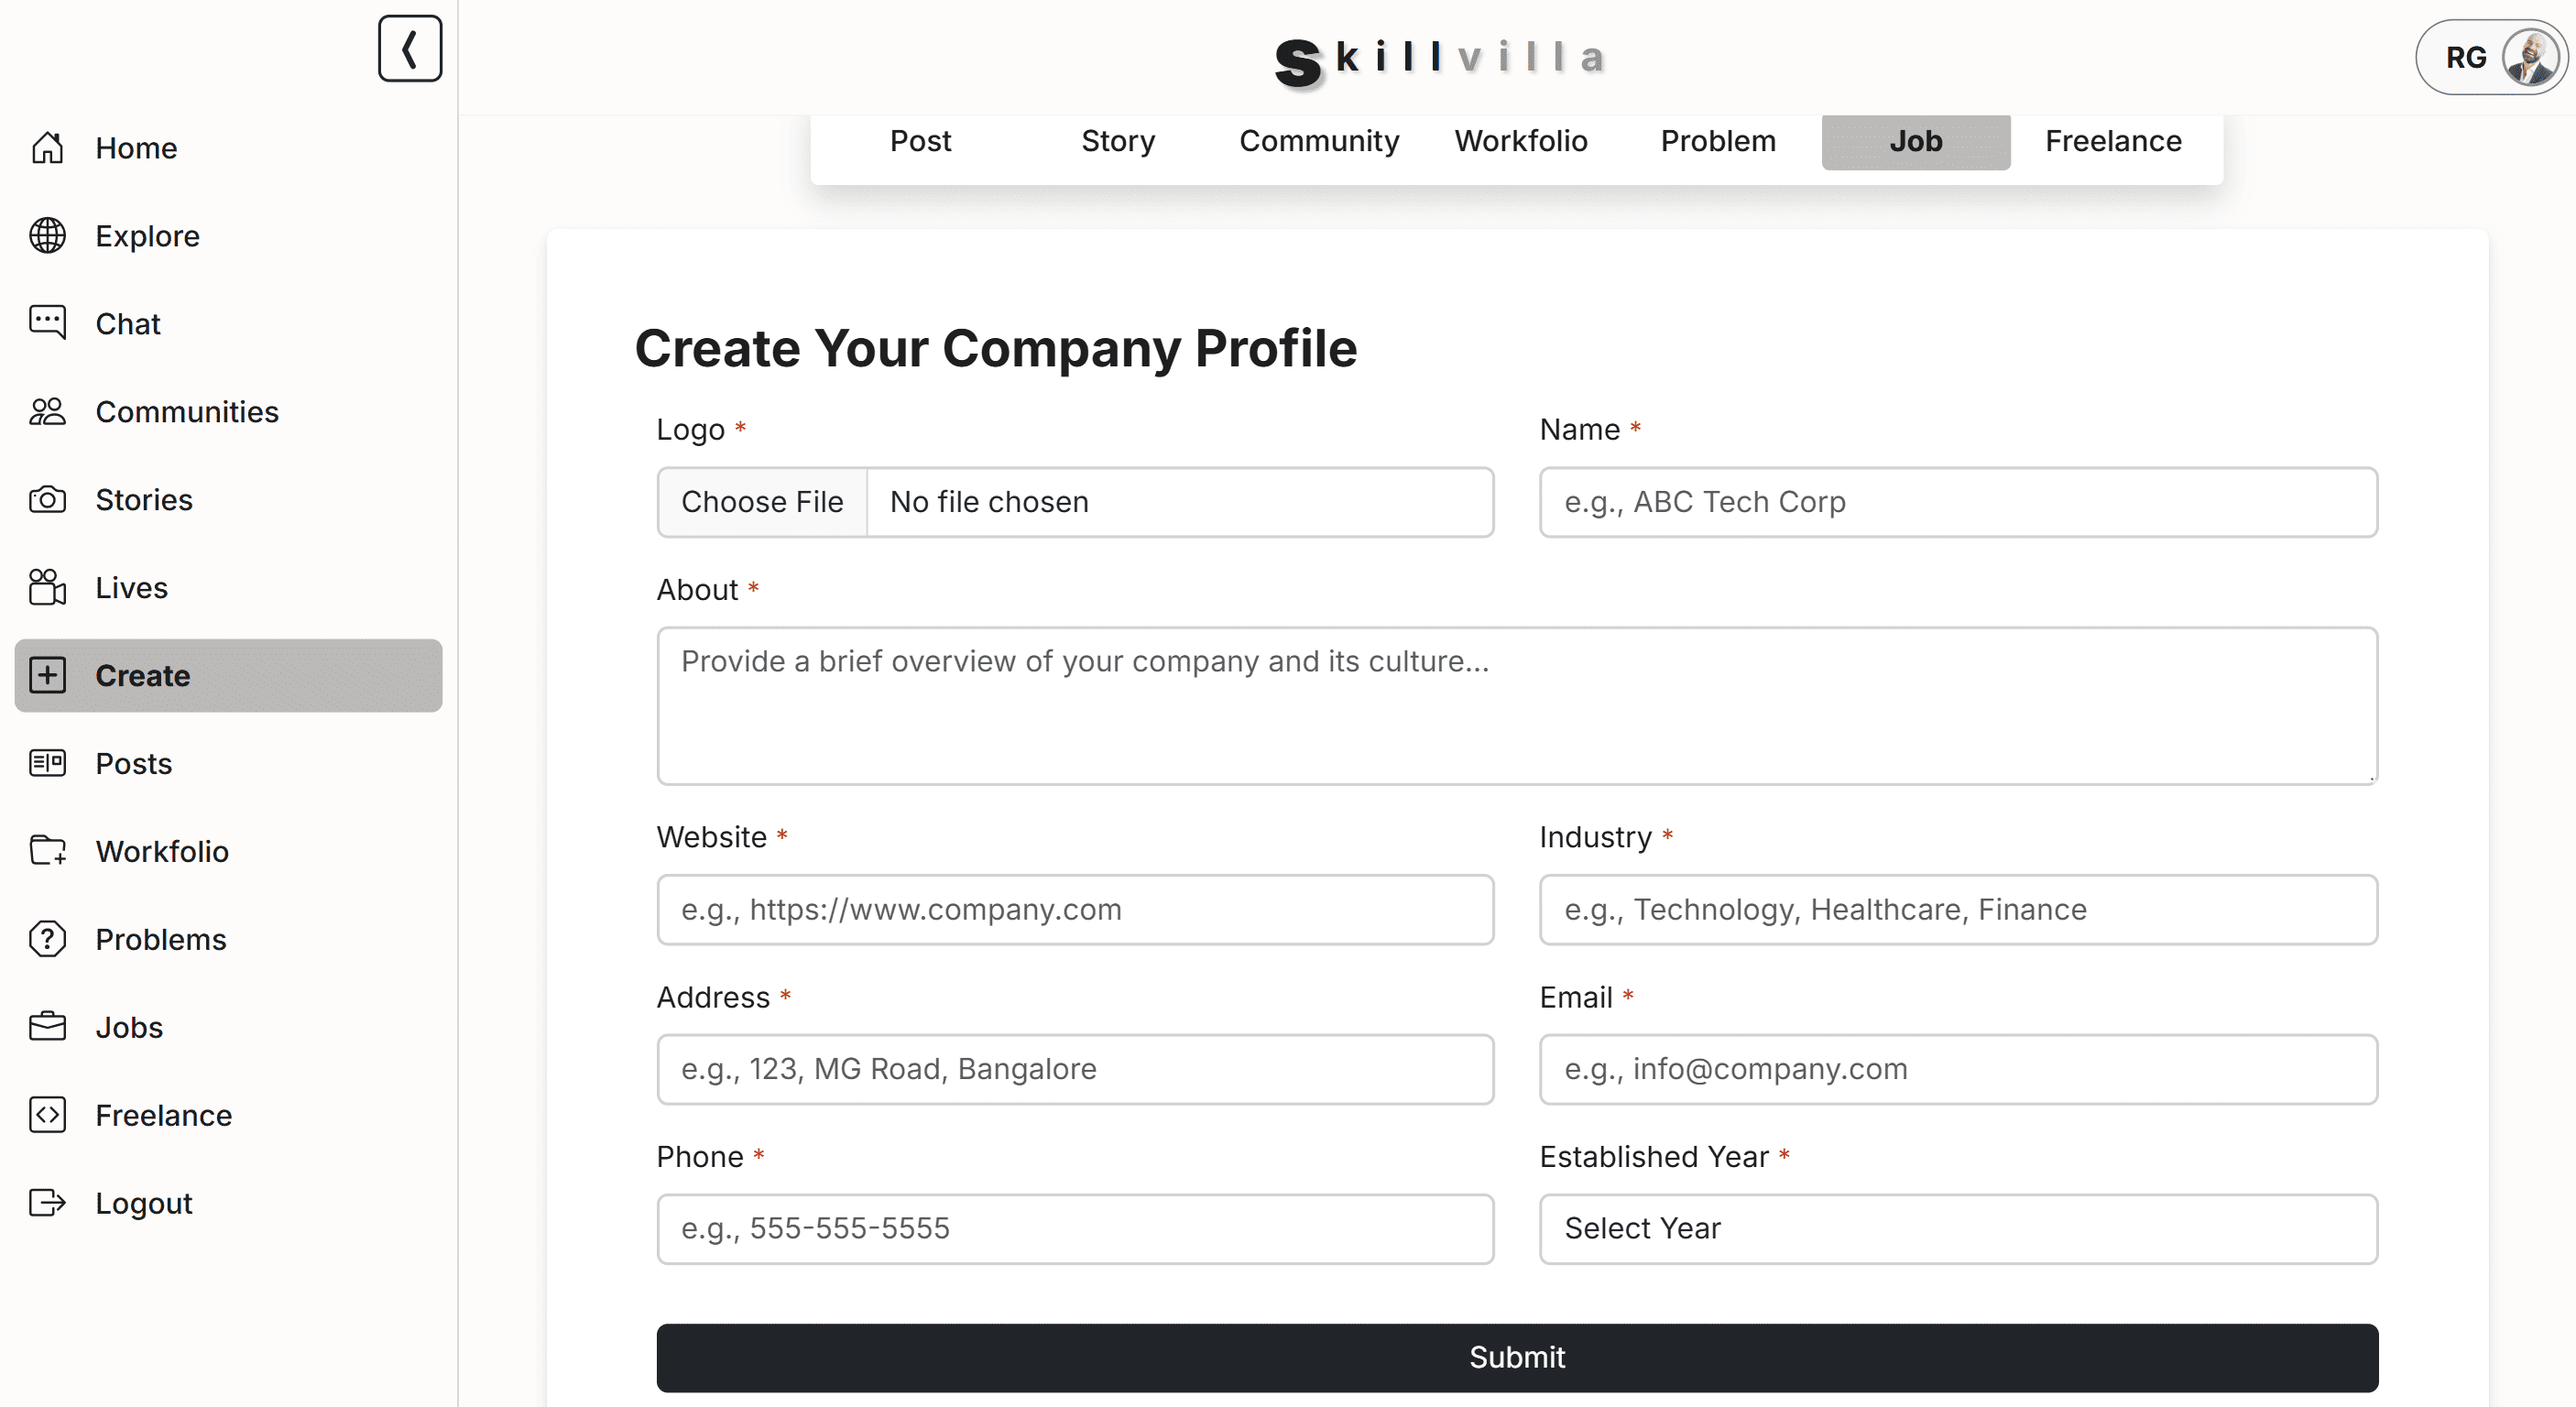
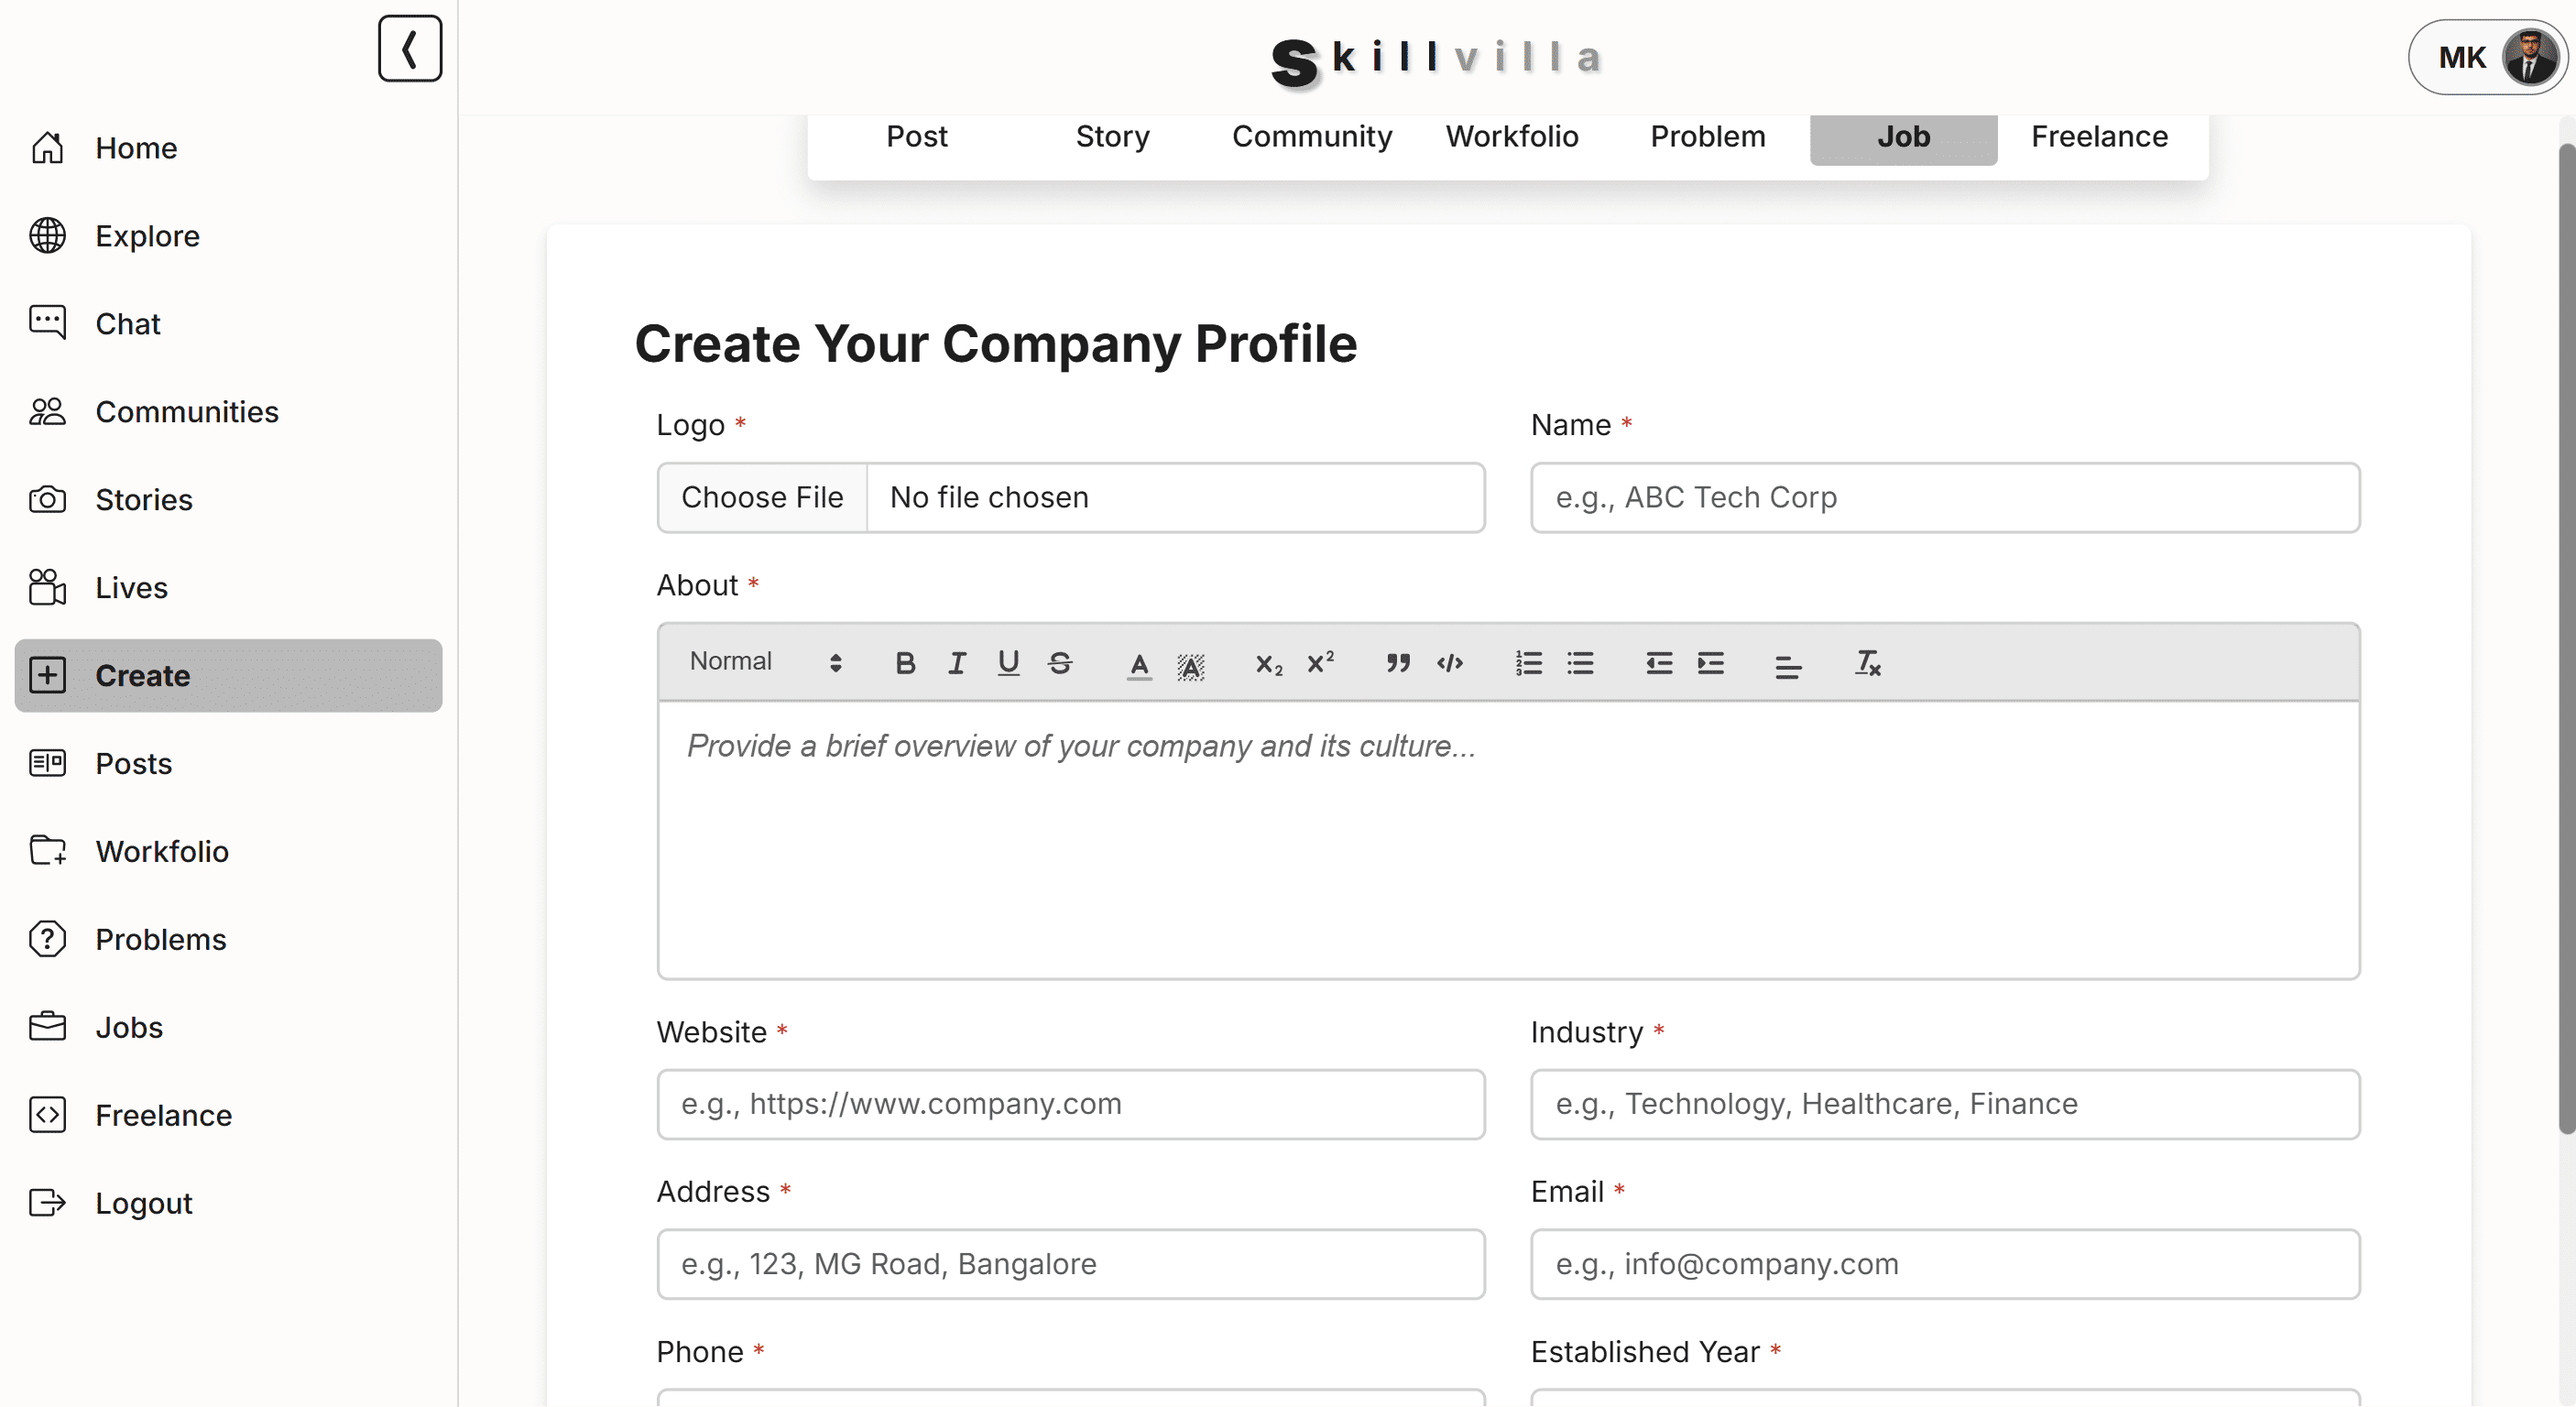
skillvilla detail feature create section and company profile is completed

diff --git a/src/lib/project-detail-data/skillvilla/data.ts b/src/lib/project-detail-data/skillvilla/data.ts
@@ -411,7 +411,173 @@ export const featureProps = [
 					"Smooth navigation between multiple stories from the same user",
 				],
 				image: '/project-doc/skillvilla/customer/5-story/2-story-detail-page.png',
+			},
+			{
+				title: 'Create Post Page',
+				description: 'Allows users to create and share posts with media attachments, tagged users, and categorized content for better discovery.',
+				points: [
+					"Users can upload one or multiple attachments (images or videos)",
+					"Supports tagging other users in the post",
+					"Option to select one or more categories to improve visibility and search relevance",
+					"Text field for adding a description or caption to the post",
+					"User-friendly interface with preview support for selected media",
+					"Input validations and upload progress feedback",
+					"Optimized for both desktop and mobile devices",
+				],
+				image: '/project-doc/skillvilla/customer/6-create/1-post-page.png',
+			},
+			{
+				title: 'Create Story Page',
+				description: 'Enables users to share quick moments through stories - supporting both images and videos, each visible for 24 hours.',
+				points: [
+					"Users can upload one story at a time, up to a total of 10 consecutive stories",
+					"Supports both image and video formats for story content",
+					"Instant preview before uploading to ensure correct selection",
+					"Each story automatically expires and disappears after 24 hours",
+					"Clean, focused UI designed for fast mobile interaction",
+					"Progress feedback and validation to prevent unsupported file types",
+					"Allows adding multiple stories in a seamless flow",
+				],
+				image: '/project-doc/skillvilla/customer/6-create/2-story-page.png',
+			},
+			{
+				title: 'Create Community Page',
+				description: 'Allows users to build and manage their own communities by defining visibility, content rules, and member access.',
+				points: [
+					"Form to enter community name and upload a cover image",
+					"Option to set community privacy: Public or Private",
+					"Control over content sharing: allow everyone or only selected members",
+					"Rich-text description field for defining the purpose or rules of the community",
+					"Clear guidance and validations to ensure required inputs are filled",
+					"Supports future edits and updates by the creator/admin",
+					"Simple and intuitive layout for fast creation on both mobile and desktop",
+				],
+				image: '/project-doc/skillvilla/customer/6-create/3-community-page.png',
+			},
+			{
+				title: 'Create Workfolio Page',
+				description: 'A showcase builder that allows users to highlight their professional work, skills, or projects with rich media content.',
+				points: [
+					"Users can enter a title and choose a relevant category for the work",
+					"Detailed description field to explain the project, skills used, and outcomes",
+					"Upload up to 50 images to visually represent the work",
+					"Support for uploading a single video to provide deeper insight or demo",
+					"Allows attaching supporting files like PDFs or ZIPs (e.g., case studies, source code)",
+					"Organized layout with previews and validation for each media/file type",
+					"Workfolios are added to the user's profile and visible to other users or recruiters",
+				],
+				image: '/project-doc/skillvilla/customer/6-create/4-workfolio-page.png',
+			},
+			{
+				title: 'Create Problem Page',
+				description: 'Allows users to post real-world challenges or technical problems to get guidance, support, or expert solutions from the community.',
+				points: [
+					"Users can input a clear and concise problem title",
+					"Detailed description box to explain the issue or context",
+					"Option to upload supporting material including images, PDFs, or ZIP files",
+					"Field to attach an external URL (e.g., GitHub repo, demo link, docs)",
+					"Helps gather responses, solutions, and discussions from skilled users",
+					"Organized input sections with helpful validation and upload feedback",
+					"Encourages community engagement and real-time problem-solving",
+				],
+				image: '/project-doc/skillvilla/customer/6-create/5-problem-page.png',
+			},
+			{
+				title: 'Company Detail Setup Page',
+				description: "Before posting a job, users must provide their company's profile information to ensure credibility and transparency.",
+				points: [
+					"Upload a company logo for branding and visual identity",
+					"Input fields for company name and industry type",
+					"Rich-text field for writing about the company's mission, culture, or services",
+					"Optional website URL to provide external company reference",
+					"Full address field for location-based filtering and applications",
+					"Contact details including official email and phone number",
+					"Field to input company's established year for legitimacy",
+					"This setup only needs to be done once and can be edited later",
+				],
+				image: '/project-doc/skillvilla/customer/6-create/6-company-register-page.png',
+			},
+			{
+				title: 'Create Job Page',
+				description: 'Enables users to post job opportunities with complete details, targeting relevant candidates efficiently.',
+				points: [
+					"Enter a clear and specific job title to attract the right applicants",
+					"Set salary amount and select payment type: hourly, daily, monthly, or yearly",
+					"Detailed description field to outline job responsibilities and expectations",
+					"List required skills to filter and match suitable candidates",
+					"Choose job location and employment type: full-time, part-time, internship, or contract",
+					"Set an application deadline to manage applicant timelines",
+					"Input official email and phone for candidate communication",
+					"Select preferred communication language for better clarity",
+					"Include a checkbox to indicate if the job allows work-from-home flexibility",
+					"All fields validated with clean, responsive UI optimized for all screens",
+				],
+				image: '/project-doc/skillvilla/customer/6-create/8-job-page.png',
+			},
+			{
+				title: 'Add Test Question Page',
+				description: 'Allows job posters to create a basic eligibility test that candidates must pass in order to apply for a job.',
+				points: [
+					"Enter a clear and concise test question to assess candidate suitability",
+					"Provide four multiple-choice options for each question",
+					"Select the correct answer from the given options",
+					"Supports adding multiple questions per job post for stronger filtering",
+					"Only candidates who pass the test can proceed to apply",
+					"Improves quality of applications by pre-screening based on knowledge or skills",
+					"Simple, user-friendly form layout with real-time validations",
+				],
+				image: '/project-doc/skillvilla/customer/6-create/9-add-question-page.png',
+			},
+			{
+				title: 'Create Freelance Gig Page',
+				description: 'Allows users to post freelance projects, set expectations, and receive bids from interested freelancers based on skill and budget.',
+				points: [
+					"Enter a specific and descriptive freelance gig title",
+					"Select experience level required: Beginner, Intermediate, or Expert",
+					"Provide a detailed description outlining scope, deliverables, and expectations",
+					"List the key skills needed to complete the freelance work",
+					"Set an application deadline to define when bidding closes",
+					"Specify estimated project duration (in days or weeks)",
+					"Set a budget range by entering minimum and maximum amounts in USD",
+					"Choose a payment type (e.g., fixed, hourly) to define how freelancers will be paid",
+					"Helps attract skilled freelancers and streamline the bidding process",
+				],
+				image: '/project-doc/skillvilla/customer/6-create/10-freelance-page.png',
+			},
+			{
+				title: 'Company Profile Page',
+				description: "Displays the registered company's public profile with all essential business information for job seekers to view and verify.",
+				points: [
+					"Showcases company logo, name, and industry for clear identity",
+					"Displays company description to highlight mission and work culture",
+					"Includes company website, email, phone, and address for contact reference",
+					"Shows the established year for trust and authenticity", 
+					"Public view allows job seekers to explore before applying",
+				],
+				image: '/project-doc/skillvilla/customer/7-company/1-company-profile-page.png',
+			},
+			{
+				title: 'Update Company Profile Page',
+				description: 'Allows company representatives to update or edit their company information at any time to keep the profile current and accurate.',
+				points: [
+					"Editable fields for logo, name, industry, and description",
+					"Allows updates to website link, contact email, phone, and address",
+					"Enables changes to the company's established year and branding",
+					"Form includes input validations and helpful hints",
+					"Instant update reflected across all job postings and public views",
+					"Responsive design ensures smooth editing across devices",
+				],
+				image: '/project-doc/skillvilla/customer/7-company/2-company-profile-update-page.png',
 			}
+
+
+
+
+
+
+
+
+
 
 
 
